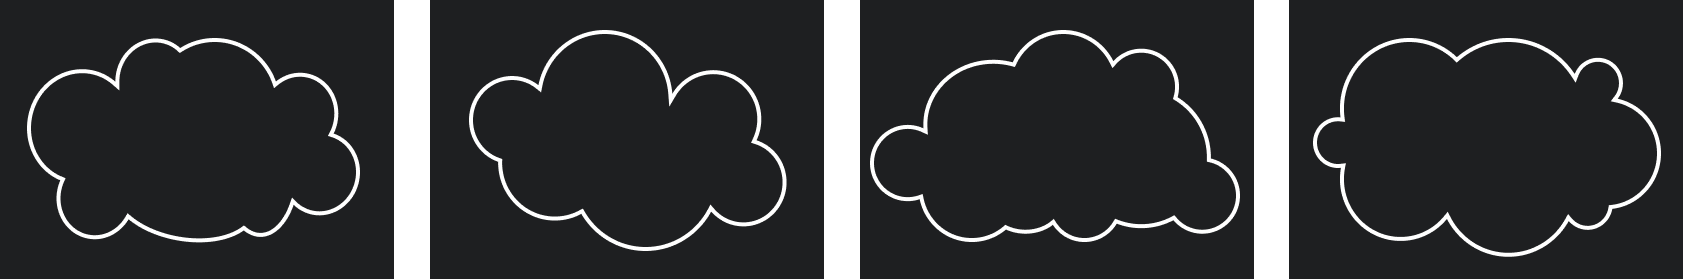
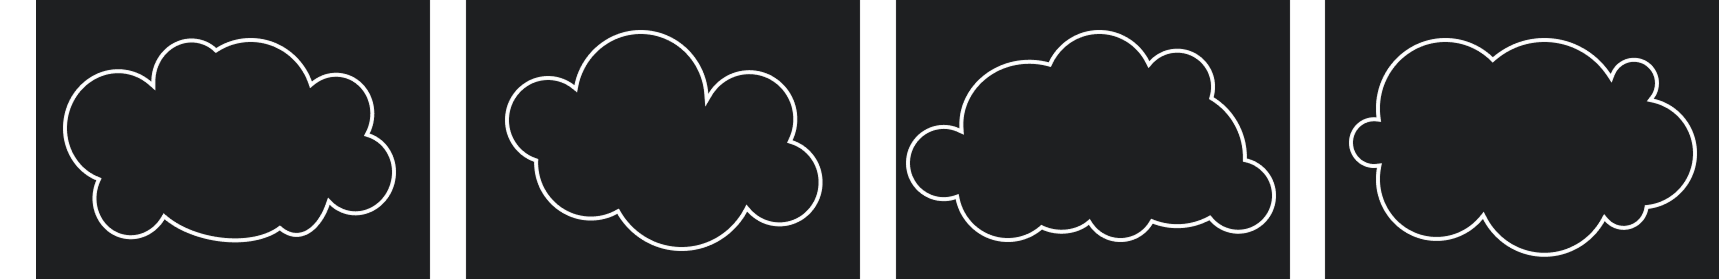
adaptive fixes added

diff --git a/index.html b/index.html
@@ -120,31 +120,28 @@
          A320,320 0 1 0 417.4,737.5" />
                     </defs>
 
+
                     <text class="svgtext">
-                        <textPath
-                                href="#outerTop"
-                                startOffset="50%"
-                                text-anchor="middle"
-                        >
-                            водяной пар
+                        <textPath href="#outerTop" startOffset="50%" text-anchor="middle">
+                            <tspan dy="-28">водяной пар</tspan>
                         </textPath>
                     </text>
 
                     <text class="svgtext">
                         <textPath href="#outerBottom" startOffset="35%">
-                            25%
+                            <tspan dy="-28">25%</tspan>
                         </textPath>
                     </text>
 
                     <text class="svgtext svgtext-center">
                         <textPath href="#thirdBottomReverse" startOffset="40%">
-                            металлическая пыль
+                            <tspan dy="-28">металлическая пыль</tspan>
                         </textPath>
                     </text>
 
-                    <text class="svgtext">
-                        <textPath href="#thirdBottom" startOffset="90%">
-                            40%
+                    <text class="svgtext svgtext-40">
+                        <textPath href="#thirdBottom" startOffset="90%" text-anchor="middle">
+                            <tspan dy="-28">40%</tspan>
                         </textPath>
                     </text>
 
@@ -305,10 +302,6 @@
         </div>
 
         <div class="footer-grid">
-            <div class="footer-logo">
-                <img src="/img/Frame 235.png" alt="HSE" class="logo-img">
-            </div>
-
             <div class="footer-author">
                 <div>Шипилова А.Д.</div>
                 <div>2 группа</div>

diff --git a/css/styles.css b/css/styles.css
@@ -245,6 +245,7 @@ body {
 }
 
 
+
 /* ============ LINES AFTER BLOCK ============ */
 
 .line-solid {
@@ -302,27 +303,32 @@ body {
 
 .cloud-marquee {
     width: 100%;
-    left: 0;
-    transform: none;
     height: 280px;
-    background-color: #1E1F21;
-    overflow: hidden;
+    background-color: #7F96B2; /* синий как в проекте */
     position: relative;
-    margin-top: 60px;
-    margin-bottom: 70px;
+    overflow: hidden;
+    margin-top: 30px;
+    margin-bottom: 30px;
 }
+
 
 .cloud-marquee-inner {
     position: absolute;
-    top: 0;
+    top: 20px;
+    bottom: 20px;
     left: 0;
-    width: 200vw;
-    height: 100%;
-    background-image: url('/img/cloud_string.png');
+    width: 200%;
+
+    background-image:
+ url('/img/cloud_string.png');
+
     background-repeat: repeat-x;
-    background-size: auto 100%;
+    background-size: auto 100%, 1320px 100%;
+    background-position: left center;
+
     animation: cloudMarquee 15s linear infinite;
 }
+
 
 @keyframes cloudMarquee {
     from { transform: translateX(0); }
@@ -802,14 +808,20 @@ body {
     margin-left: -35px;
 }
 
+
+
+
 .footer-author {
-    text-align: right;
-    font-size: 36px;
-    line-height: 1.15;
-    padding-bottom: 24px;
-    margin-top: 110px;
-    align-self: start;
+    font-family: 'Axiforma', 'Arial Black', sans-serif;
+    font-weight: 900;
+    color: var(--white);
+    font-size: 6rem;
+    letter-spacing: 0.5px;
+    white-space: nowrap;
+    line-height: 1;
+    text-transform: uppercase;
 }
+
 
 .footer-frame {
     display: grid;
@@ -1175,6 +1187,10 @@ body {
     .line-dashed {
         display: none;
     }
+
+    .footer-author{
+        font-size: 3rem;
+    }
 }
 
 @media (max-width: 640px) {
@@ -1329,7 +1345,7 @@ body {
     }
 
     .footer-author {
-        font-size: 18px;
+        font-size: 1.6rem;
     }
 
 }
